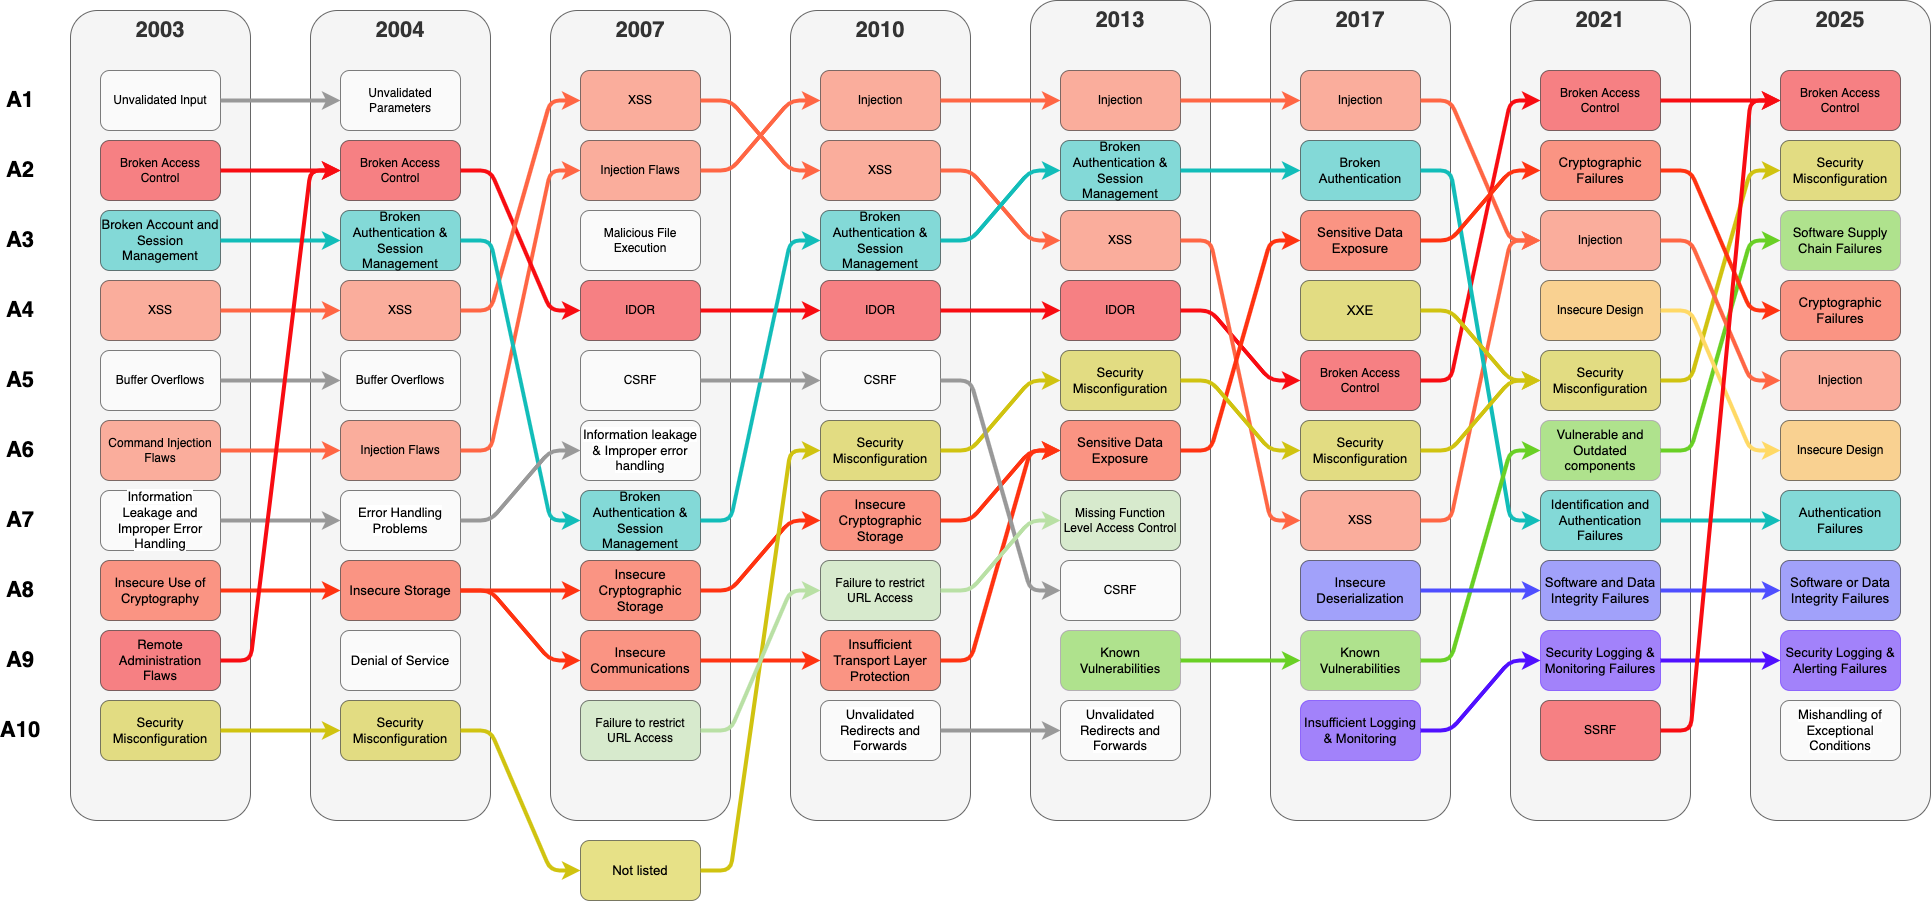
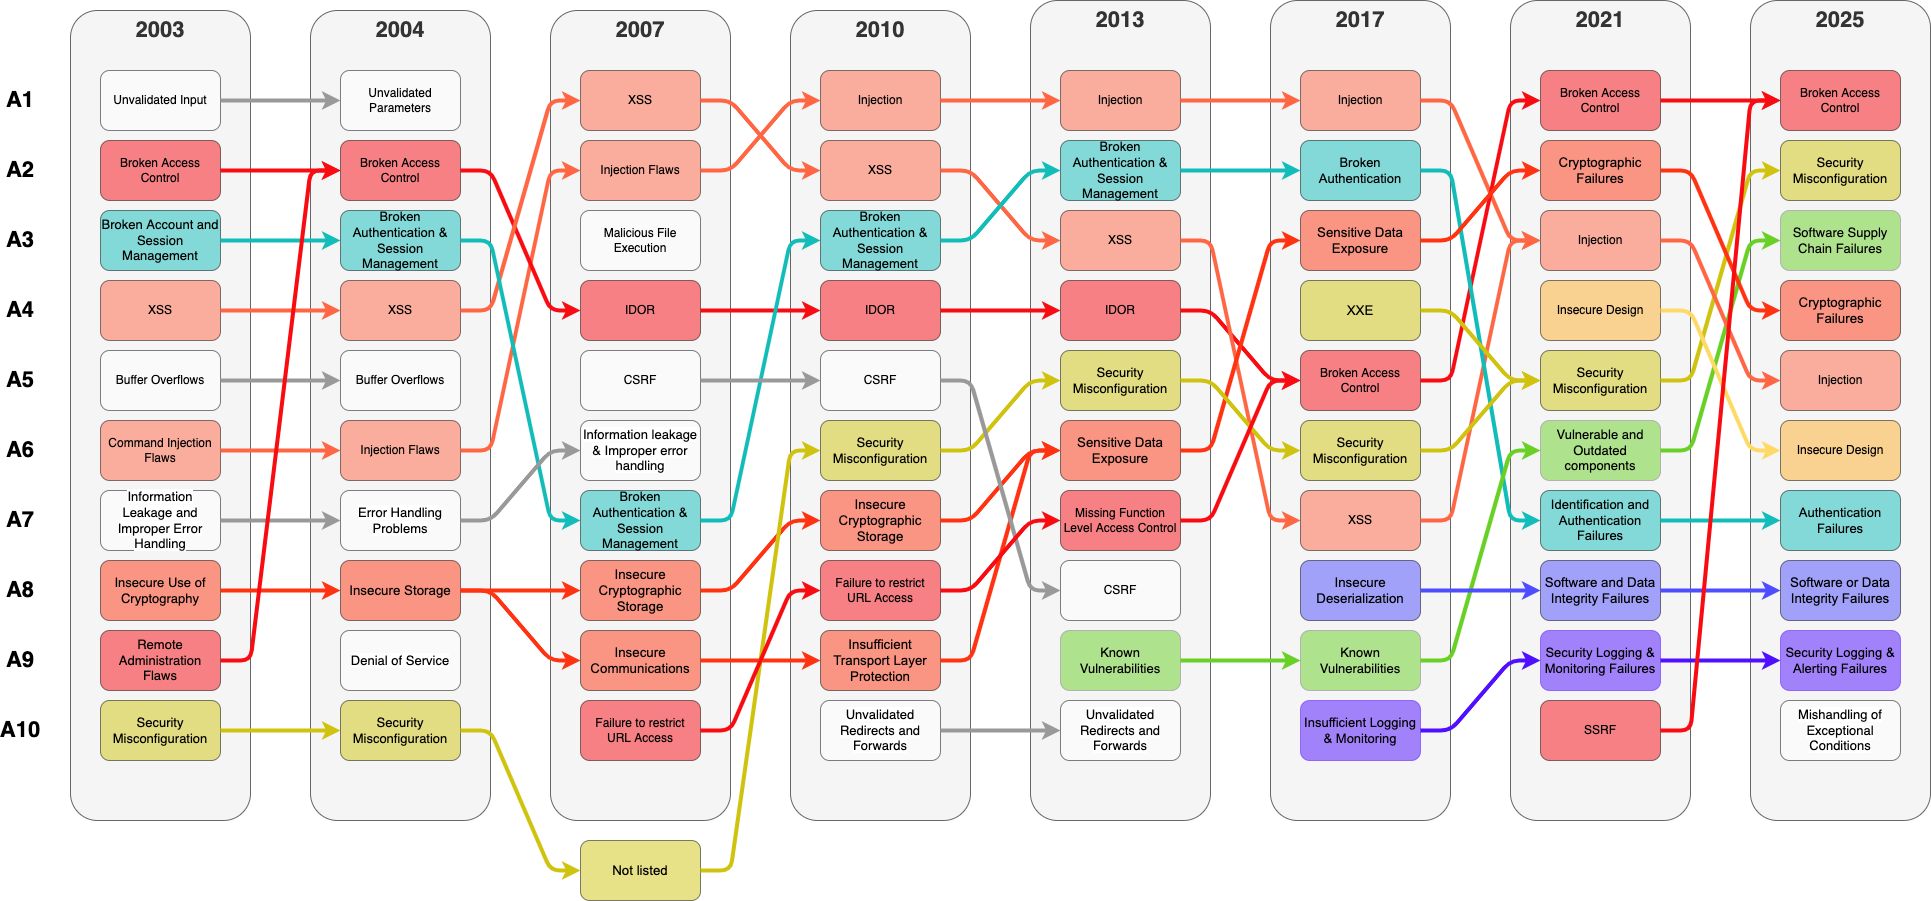
Adds Agentic Skills, LLM and ML Security Top 10's to the list

Changed region(s): [[0.5282, 0.5283, 0.6214, 0.6215], [0.4039, 0.6215, 0.5282, 0.7148], [0.2796, 0.7769, 0.3729, 0.8701]]

diff --git a/defense/owasp/README.md b/defense/owasp/README.md
@@ -15,6 +15,9 @@ Other OWASP Top 10's:
 * OWASP Top 10 [Serverless](https://github.com/OWASP/Serverless-Top-10-Project)
 * OWASP Top 10 [Thick Client](https://owasp.org/www-project-thick-client-top-10/) ([GitHub](https://github.com/OWASP/www-project-thick-client-top-10))
 * OWASP Top 10 [Card Game](https://github.com/OWASP/www-project-top-10-card-game)
+* OWASP Top 10 [Agentic Skills](https://owasp.org/www-project-agentic-skills-top-10/)
+* OWASP Top 10 [for Large Language Model Applications](https://owasp.org/www-project-top-10-for-large-language-model-applications/)
+* OWASP Top 10 [Machine Learning Security](https://owasp.org/www-project-machine-learning-security-top-10/)
 
 ## OWASP Projects Map
 
